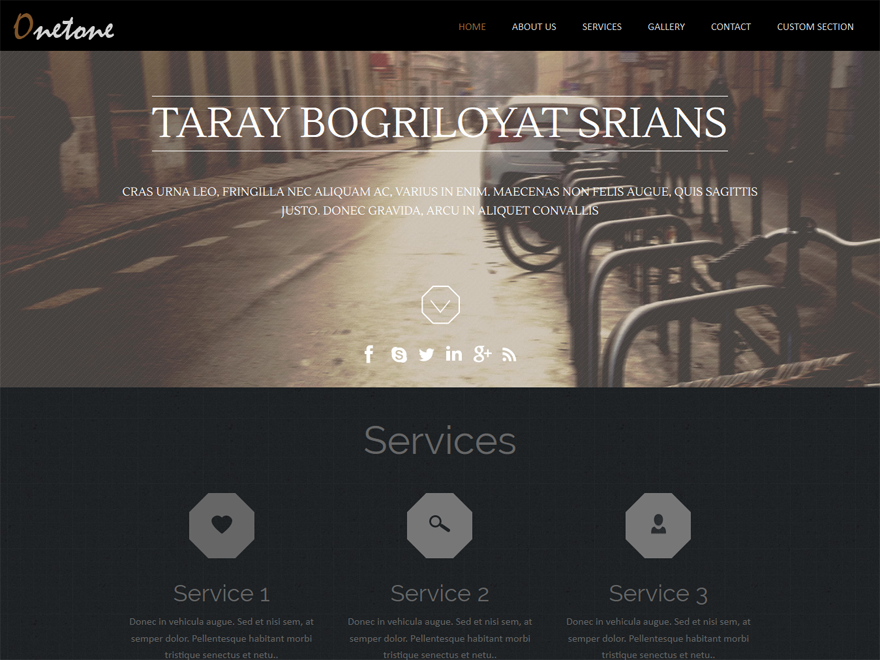
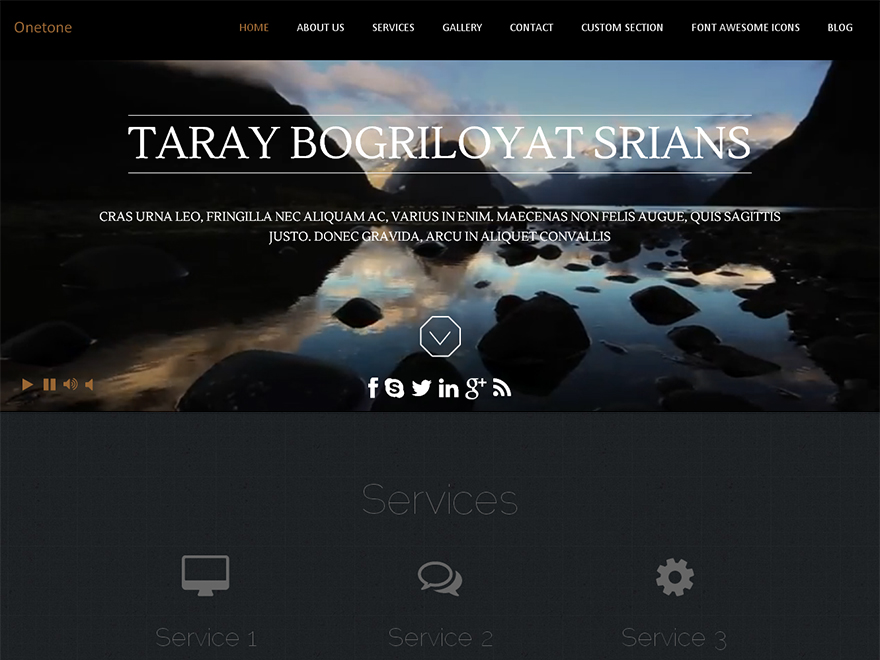
升级onetone主题

diff --git a/wp-content/themes/onetone/style.css b/wp-content/themes/onetone/style.css
@@ -2,7 +2,7 @@
 Theme Name: onetone
 Theme URI: http://www.mageewp.com/onetone-theme.html
 Description: Onetone is a one-page responsive business theme based on HTML5/CSS3. All required information are displayed on a single page with clear order according to users’ preferences. The basic sections designed for business purpose have already been built for you. There’s also an extensive admin panel where unlimited sections can be easily added. Multiple options are available if you prefer to do some adjustments,such as changing background, video background, Font Awesome Icons, uploading logo and favicon,adding custom CSS and so on.
-Version: 1.1.4
+Version: 1.1.6
 Author: MageeWP
 Author URI: http://www.mageewp.com
 License: GNU General Public License
@@ -1466,6 +1466,31 @@ i.fa-5 {
 }
 i.fa-6 {
     font-size: 20em;
+}
+
+/** background video**/
+
+#video-controls {
+    width: 333px;
+}
+#video-controls i.fa{
+	font-size:20px;
+	vertical-align: middle;
+	}
+#video-controls i.fa-volume-up {
+	font-size:22px;
+	}
+#video-controls i.fa-volume-off {
+	font-size:25px;
+	}
+.black-65 {
+    color: #FFFFFF;
+    margin: 24px 0;
+    padding: 4px 12px;
+	left: 20px;
+	bottom: 0;
+	position: absolute;
+	z-index:999;
 }
 /* =Responsive-------------------------------------------------------------- *//* Maximum width of 600 pixels. */
 @media screen and (max-width:600px) {

diff --git a/wp-content/themes/onetone/includes/theme-setup.php b/wp-content/themes/onetone/includes/theme-setup.php
@@ -25,12 +25,12 @@ function onetone_setup(){
 }
 
 add_action( 'after_setup_theme', 'onetone_setup' );
-if ( ! isset( $content_width ) ) $content_width = 720;
+if ( ! isset( $content_width ) ) $content_width = 1120;
 
  function onetone_custom_scripts(){
     wp_enqueue_style('onetone-font-awesome',  get_template_directory_uri() .'/css/font-awesome.min.css', false, '4.0.3', false);
-	wp_enqueue_style('onetone-main',  get_template_directory_uri() .'/style.css', false, '', false);
-	wp_enqueue_style('onetone-media', get_template_directory_uri().'/media.css', false, '', false);
+	wp_enqueue_style('onetone-main',  get_template_directory_uri() .'/style.css', false, '1.1.6', false);
+	wp_enqueue_style('onetone-media', get_template_directory_uri().'/media.css', false, '1.1.4', false);
 	wp_enqueue_style('Yanone-Kaffeesatz', esc_url('//fonts.googleapis.com/css?family=Yanone+Kaffeesatz|Lustria|Raleway|Open+Sans:400,300'), false, '', false );
 	
    $background_array  = onetone_options_array("page_background");
@@ -51,10 +51,10 @@ if ( ! isset( $content_width ) ) $content_width = 720;
 	
 	wp_add_inline_style( 'onetone-main', $onetone_custom_css );
 	if(is_home()){
-	wp_enqueue_script( 'onetone-animatescroll', get_template_directory_uri().'/js/jquery.smint.js', array( 'jquery' ), '', true );
-	wp_enqueue_script( 'onetone-bigvideo', get_template_directory_uri().'/js/jquery.tubular.1.0.js', array( 'jquery' ), '', true );
+	wp_enqueue_script( 'onetone-animatescroll', get_template_directory_uri().'/js/jquery.smint.js', array( 'jquery' ), '2.0', true );
+	wp_enqueue_script( 'onetone-bigvideo', get_template_directory_uri().'/js/jquery.tubular.1.0.js', array( 'jquery' ), '1.0', true );
 	}
-	wp_enqueue_script( 'onetone-default', get_template_directory_uri().'/js/onetone.js', array( 'jquery' ), '', true );
+	wp_enqueue_script( 'onetone-default', get_template_directory_uri().'/js/onetone.js', array( 'jquery' ), '1.1.4', true );
 	
 	if ( is_singular() && comments_open() && get_option( 'thread_comments' ) ){wp_enqueue_script( 'comment-reply' );}
 	}

diff --git a/wp-content/themes/onetone/index.php b/wp-content/themes/onetone/index.php
@@ -61,11 +61,15 @@ get_header();
  $section_background_video  = onetone_options_array( 'section_background_video_'.$i );
  $section_css_class   = onetone_options_array( 'section_css_class_'.$i );
  $section_content     = onetone_options_array( 'sction_content_'.$i );
+ $section_slug        = onetone_options_array( 'menu_slug_'.$i );
 
  $background = onetone_get_background($section_background);
  $sanitize_title = "";
  if($section_menu  && $section_menu  != ""){
  $sanitize_title = sanitize_title($section_menu );
+ if(trim($section_slug) !=""){
+	 $sanitize_title = $section_slug; 
+	 }
  }
  $css_class = isset($section_css_class)?$section_css_class:"";
  
@@ -89,13 +93,21 @@ get_header();
             <?php echo do_shortcode($section_content);?>
         </div>
 		<div class="clear"></div>
+     <?php 
+	 if($section_background_video != ""){
+	  echo '<p class="black-65" id="video-controls"><a class="tubular-play" href="#"><i class="fa fa-play "></i></a>&nbsp; &nbsp;&nbsp;&nbsp;<a class="tubular-pause" href="#"><i class="fa fa-pause "></i></a></a>&nbsp;&nbsp;&nbsp;&nbsp;<a class="tubular-volume-up" href="#"><i class="fa fa-volume-up "></i></a>&nbsp;&nbsp;&nbsp;&nbsp;<a class="tubular-volume-down" href="#"><i class="fa fa-volume-off "></i></a> </p>';
+	 }
+	 ?>
     </section>
  <?php
 
  }
- if($video_array !="" && $video_array != NULL){
+  if($video_array !="" && $video_array != NULL){
   wp_localize_script( 'onetone-bigvideo', 'onetone_bigvideo',$video_array);
-  }
+  
+       
+		}
+
  endif;
  ?>
 <div class="clear"></div>  

diff --git a/wp-content/themes/onetone/includes/admin-options.php b/wp-content/themes/onetone/includes/admin-options.php
@@ -263,6 +263,8 @@ feugiat quis ultrices tristique, rhoncus eu leo. In eu quam lacus. dear Praesent
 		$options[] = array('name' => sprintf(__('Section %s', 'onetone'),($i+1)),'id' => 'slide_group_start_'.$i.'','type' => 'start_group','class'=>'group_close');
 		$options[] = array('name' => __('Section Title', 'onetone'),'id' => 'section_title_'.$i.'','type' => 'text','std'=>$section_title[$i]);
 		$options[] = array('name' => __('Menu Title', 'onetone'),'id' => 'menu_title_'.$i.'','type' => 'text','std'=>$section_menu[$i],'desc'=>'This title will display in the header menu. It is required');
+		$options[] = array('name' => __('Menu Slug', 'onetone'),'id' => 'menu_slug_'.$i.'','type' => 'text','std'=>'','desc'=>'The  "slug" is the URL-friendly version of the name. It is usually all lowercase and contains only letters, numbers, and hyphens.');
+		
 		$options[] = array('name' =>  __('Section Background', 'onetone'),'id' => 'section_background_'.$i.'','std' => $section_background[$i],'type' => 'background' );
 	    if($i == 0){
 		$options[] = array('name' => __('Section Background Video', 'onetone'),'std' => $section_background_video[$i],'desc' => __('YouTube Video ID', 'onetone'),'id' => 'section_background_video_'.$i.'',

diff --git a/wp-content/themes/onetone/header.php b/wp-content/themes/onetone/header.php
@@ -36,9 +36,14 @@
  for( $i = 0; $i < $section_num ;$i++){
 
  $section_menu = onetone_options_array( 'menu_title_'.$i );
+ $section_slug = onetone_options_array( 'menu_slug_'.$i );
 
  if(isset($section_menu) && $section_menu !=""){
  $sanitize_title = sanitize_title($section_menu);
+ $section_menu = onetone_options_array( 'menu_title_'.$i );
+ if(trim($section_slug) !=""){
+	 $sanitize_title = $section_slug; 
+	 }
  $onepage_menu .= '<li id="onetone-'.$sanitize_title.'" class="onetone-menuitem"><a href="#'.$sanitize_title.'" ><span>'.$section_menu.'</span></a></li>';
  }
  }

diff --git a/wp-content/themes/onetone/sidebar.php b/wp-content/themes/onetone/sidebar.php
@@ -1,0 +1,5 @@
+<div class="sidebar">
+    <div class="widget-area">
+   <?php dynamic_sidebar(1) ;?>
+    </div>
+  </div>
